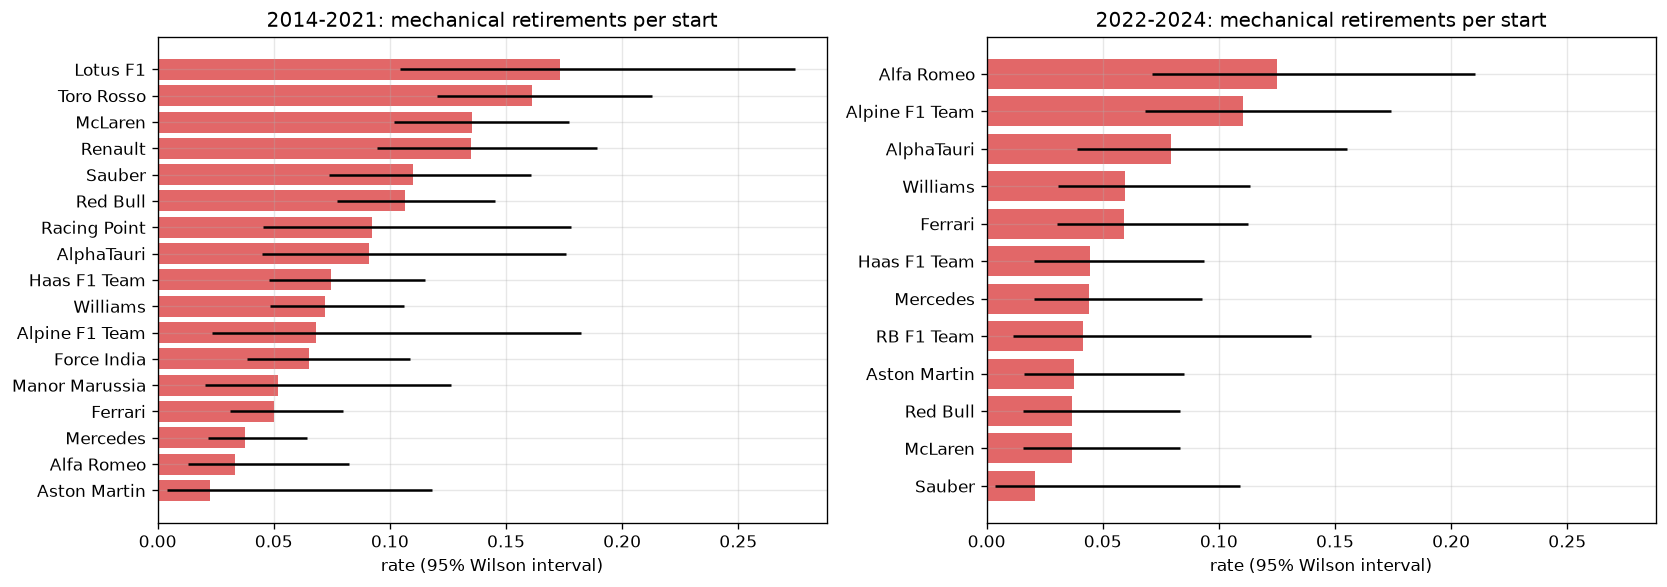
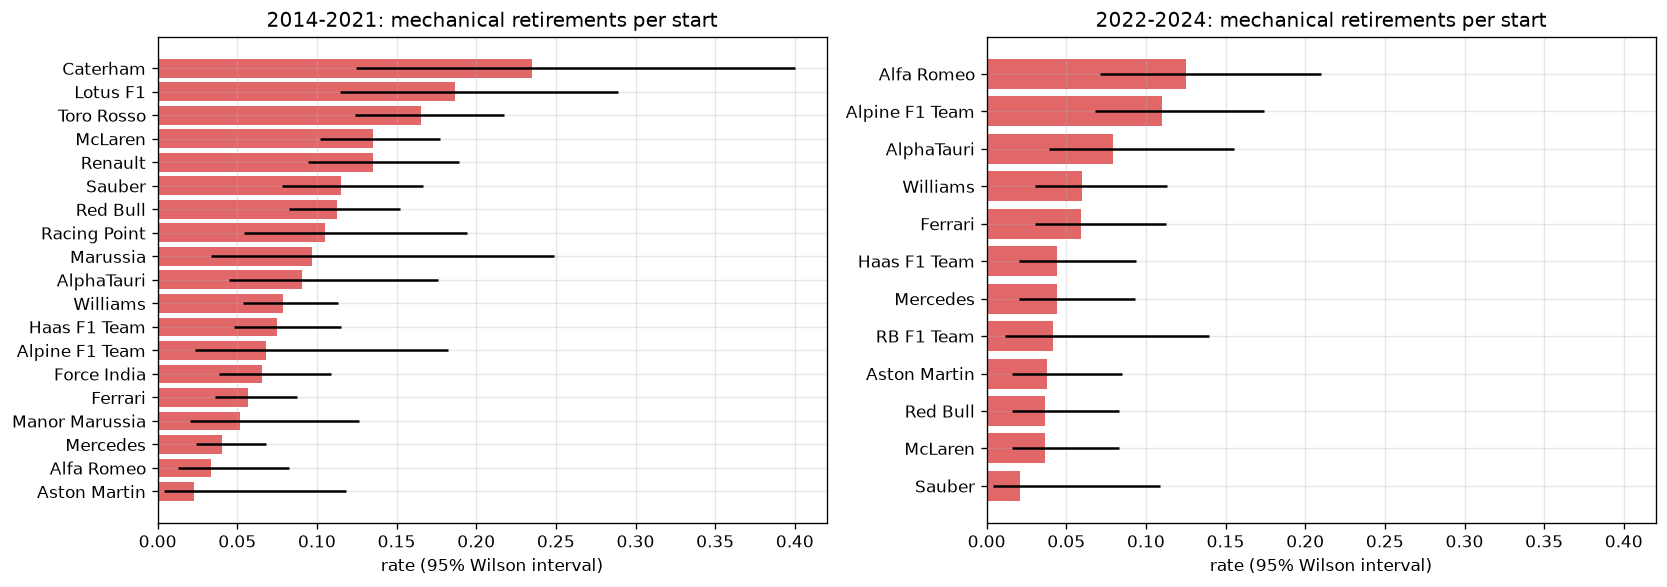
Update the report and hand-off to the extended data sections
Report sections 1-7 cover the audit findings, validity and reconciliation,
the revised Q3 answer, the feature trials and the missing-value handling,
with the per-season missing-value figure. The hand-off adds the staff
guidance for the baseline, the network, the report format and the open
point on qualifying for the ablation.

diff --git a/report/report.md b/report/report.md
@@ -1,32 +1,36 @@
 # Formula 1 Podium Prediction — Milestone 1 Report
 
-*Draft. Sections 1–7 cover data cleaning, the data-engineering questions, feature engineering, the split and preprocessing. Sections 8–10 are completed with the modeling work. Every number comes from `F1_podium_prediction.ipynb`; section numbers in brackets (§) point to the notebook.*
+*Draft. Sections 1–7 cover the data audit and cleaning, the data-engineering questions, feature engineering, the split and preprocessing. Sections 8–10 are completed with the modeling work. Every number comes from `F1_podium_prediction.ipynb`; section numbers in brackets (§) point to the notebook.*
 
 ## 1. Task and data
 
 For every driver in every race we predict whether the driver finishes on the podium (`positionOrder <= 3`), using only information available after qualifying and before the start. One row of the modeling table is one driver in one race, so `(raceId, driverId)` must be unique.
 
-The data is the Kaggle / Ergast Formula 1 dataset, 1950–2024: 14 relational tables, 26,759 result rows in 1,125 races. Not every table covers every season: qualifying starts in 1994, lap times in 1996, pit stops in 2011 and sprint results in 2021 (§2).
+The data is the Kaggle / Ergast Formula 1 dataset, 1950–2024: 14 relational tables, 26,759 result rows in 1,125 races. Not every table covers every season: qualifying starts in 1994, lap times in 1996, pit stops in 2011, sprint results in 2021, and constructor standings only in 1958, when the Constructors' Championship began (§2).
 
 ![Seasons covered by each table](figures/table_coverage.png)
 
-## 2. Data cleaning
+## 2. Data audit and cleaning
 
-Before cleaning (§2.3), the result rows per race peak at about 39 in the late 1970s–80s, the podium share dips exactly there, and `grid = 0` is a spike of 1,638 rows that mixes drivers who never started with pit-lane starts.
+**Profile before any change (§2).** Every column of every table was profiled (distinct values, missing share, range, examples), the missing-value markers were counted per column and per season, and the categorical columns were listed with their value counts. Before cleaning, the result rows per race peak at about 39 in the late 1970s–80s, the podium share dips exactly there, and `grid = 0` is a spike of 1,638 rows that mixes drivers who never started with pit-lane starts.
 
 ![Raw rows per race, podium share and grid values](figures/raw_target_grid.png)
 
-| Issue (how it was found) | Decision | Evidence |
+| Problem | How it was detected | Decision |
 | --- | --- | --- |
-| Missing values stored as the text `\N` in 30 columns, and as empty strings in `q2`/`q3` for 2023–2024 | Read both as missing; nothing else is treated as missing | sentinel count per column (§2.1) |
-| Dates, lap times, qualifying times and pit-stop durations stored as text, in three formats (`23.456`, `1:26.572`, `2:05:05.152`) | One parser to seconds; dates to `datetime` | parsed lap times match the `milliseconds` column on all 589,081 laps (§3.1) |
-| One impossible qualifying time (`16:42.640`, 1995 Japanese GP, pole ≈ 98 s) | Times above 150% of pole set to missing (only this one) | gap-to-pole distribution: 99.9% of times are within 19.4% of pole (§3.1) |
-| Primary and foreign keys | All unique, complete and reconciled; no change needed | key checks on all 14 tables (§3.2) |
-| 91 extra rows on `(raceId, driverId)`: 85 shared drives, 1950–1978 | Keep the row of the car the driver started in; label it a podium if the driver finished on the podium in any car (rule D) | four rules compared: keeping the best result takes the grid slot of the wrong car in 68 of 85 pairs; keeping only the own car's result loses 17 credited podiums (§3.3) |
-| `grid = 0` mixes 1,563 entries that never started with 72 pit-lane starts | Keep a row if the driver had a grid slot or completed a lap; pit-lane starts placed at the back of the grid with a flag | none of the dropped rows is a podium; dropping by status letter or by `grid = 0` alone keeps non-starters or loses pit-lane starts (§3.4) |
-| Indianapolis 500 (1950–1960) | Dropped | 103 of its 107 drivers never raced another championship race (§3.4) |
+| Missing values stored as the text `\N` in 30 columns, and as empty strings in `q2`/`q3` for 2023–2024 | count per column and season (§2.2); no value is a word pandas would read as missing | read both as missing, nothing else |
+| Dates and durations stored as text, durations in three formats (`23.456`, `1:26.572`, `2:05:05.152`) | column profile, format patterns (§2.1, §2.4) | one parser to seconds (matches the `milliseconds` column on all 589,081 laps); dates to `datetime` |
+| Spelling variants: `Argentine`/`Argentinian`, `USA`/`United States` | value counts (§2.3) | one canonical name each, asserted (§3.1) |
+| One impossible qualifying time (`16:42.640`, 1995 Japanese GP, 10.2× pole) | gap to pole; the next slowest time is 1.45× pole | set to missing; any cutoff between 1.45× and 10.2× gives the same result |
+| Team identity splits: 212 constructor ids share 175 Wikipedia links (chassis–engine combinations, renames) | column profile (§2.1) | follow `constructorId`, as the official championship does; documented |
+| Validity rules: 13 rules on positions, grid, laps, points, dates, ages, standings | violation counts (§3.2) | every violation traced: shared cars and the Indianapolis 500 (repeated positions), a vacant place after a disqualification (1983 Brazil), Formula 2 cars on a grid (1969 Germany), one entry error in an unused column, a mid-season id change (Marussia 2015) |
+| Do the standings agree with the results? | points summed from results and sprints vs `driver_standings` (§3.2) | agree for ≥ 99.3% of rows in every decade and 100% since 1990; the rest is the old "best results only" scoring rule, so the standings are the official championship |
+| Primary and foreign keys | uniqueness and reference checks on all 14 tables (§3.2) | all valid; no change |
+| 91 extra rows on `(raceId, driverId)`: 85 shared drives, 1950–1978 | natural-key check (§3.2) | keep the row of the car the driver started in; label it a podium if the driver finished on the podium in any car (rule D). Four rules compared: keeping the best result takes the grid slot of the wrong car in 68 of 85 pairs; keeping only the own car's result loses 17 credited podiums (§3.3) |
+| `grid = 0` mixes 1,563 entries that never started with 72 pit-lane starts | grid histogram and `laps` (§3.4) | keep a row if the driver had a grid slot or completed a lap. Checked with the model (§8.3): removing only `F` (failed to qualify) or nothing scores the same or worse on the same rows, and keeping the non-starters would flag 217 drivers who never raced as pit-lane starts |
+| Indianapolis 500 (1950–1960) | driver overlap (§3.4) | dropped: 103 of its 107 drivers never raced another championship race |
 
-Result: 26,759 result rows → 24,724 driver–race rows (podium share 13.6%).
+Result: 26,759 result rows → 24,724 driver–race rows (podium share 13.6%). No row and no column was dropped because of a missing value; §3.6 maps every column with missing values to what is done with it.
 
 After cleaning, the podium share in every season follows `3 / starters per race`; the dip before 1995 came from the non-starters (§4.1).
 
@@ -34,7 +38,7 @@ After cleaning, the podium share in every season follows `3 / starters per race`
 
 Other findings that shape the later steps:
 
-- **The grid is the strongest signal, and it drifts.** A pole position converted to a podium 53% of the time in 1950–69 and 81% in 2014–24 (§4.2).
+- **The grid is the strongest signal, and it drifts.** A pole position converted to a podium 53% of the time in 1950–69 and 81% in 2014–24 (§4.2). Per technical era, the grid's ROC-AUC rose from 0.84–0.86 (1958–1988) to 0.89–0.93 (since 1989); 2011–2013, when DRS arrived, is slightly less grid-dominated than 2009–2010 on two of three measures.
 - **Qualifying coverage is patchy.** There is no qualifying data before 1994, it is complete in 1994–95, covers only 6–59% of starters in 1996–2002, and is complete from 2003 on (§4.3).
 - **Reliability changed.** About half of the starters finished a race until the 1990s, against 86% in the 2020s (§4.4).
 
@@ -48,10 +52,10 @@ Other findings that shape the later steps:
 
 ### Q1. Which circuits convert a front-row start into a podium most often, and does the ranking change after 2014?
 
-**Grain:** one driver starting from the front row (grid 1–2) at one race. **Joins:** results → races → circuits, plus qualifying. **Missingness:** grid is complete; the qualifying definition only exists from 1994 and is analysed separately. Circuits need ≥ 10 front-row starts in a period to be ranked.
+**Grain:** one driver starting from the front row (grid 1–2) at one race. **Joins:** results → races → circuits, plus qualifying. **Missingness:** grid is complete; the qualifying definition only exists from 1994 and is analysed separately. **Periods:** 1950–2013 and 2014–2024 ("after the 2014 hybrid era" read as from 2014 on; 2022–2024 alone has at most 3 races per circuit, too few to rank). Circuits need ≥ 10 front-row starts in a period to be ranked.
 
 - Since 2014 the best converters are Suzuka (89%), Yas Marina (86%), Monaco (85%), Barcelona and Spa (82%). Before 2014 the same circuits were led by Suzuka (70%), Hungaroring (68%) and Bahrain (67%).
-- The ranking changed completely: the rank correlation between the periods is −0.03 (−0.07 when "before" is limited to 1994–2013). Hungaroring fell from 2nd to 16th; Monaco rose from 15th to 3rd.
+- The ranking changed completely: the rank correlation between the periods is −0.03. It stays near zero when "before" is limited to 1994–2013 (−0.07), when "after" is limited to the hybrid era 2014–2021 (0.01), and for any minimum of 6–15 front-row starts (−0.13 to 0.06). Hungaroring fell from 2nd to 16th; Monaco rose from 15th to 3rd.
 - Conversion rose almost everywhere (56% → 76% overall), in line with better reliability.
 - **Qualifying vs grid:** 36 of 986 front-row qualifiers since 1994 did not start from the front row (penalties), and only 31% of them reached the podium. The circuit ranking hardly depends on the definition (rank correlation 0.90).
 - With 14–26 front-row starts per circuit since 2014, one podium moves a rate by 4–7 points, so neighbouring ranks are not meaningfully different.
@@ -70,41 +74,50 @@ Other findings that shape the later steps:
 
 ### Q3. Which constructors have the highest mechanical-retirement rate in 2014–2021 vs 2022–2024?
 
-**Grain:** one car that started one race. **Joins:** results → status → constructors, results → races. **Mechanical** = a component failed; the 139 status values were grouped by hand, with an *unclear* group (tyre, puncture, wing, wheel, damage, the bare "Retired") checked separately. Teams with fewer than 40 starts in a period are not ranked.
+**Grain:** one car that started one race. **Joins:** results → status → constructors, results → races. **Mechanical** = a component failed; the 139 status values were grouped by hand. Following the course staff's clarification, tyre failures, punctures, fire and safety belt count as mechanical and refuelling does not; ambiguous statuses (wing, wheel, damage, the bare "Retired") form an *unclear* group, checked separately. Every constructor is ranked, with a 95% Wilson interval for its rate.
 
-- **2014–2021:** Lotus F1 17.3% of starts (13/75), Toro Rosso 16.1% (39/242), McLaren 13.5% (43/318), Renault 13.5% (27/200). Mercedes was the most reliable of the teams present in all eight seasons (3.8%).
+- **2014–2021:** Caterham 23.5% of starts (8/34, its only season), Lotus F1 18.7% (14/75), Toro Rosso 16.5% (40/242); McLaren and Renault 13.5%. The top three's intervals overlap (12–40%, 12–29%, 12–22%), so they cannot be strictly ordered. Mercedes was the most reliable of the teams present in all eight seasons (4.1%).
 - **2022–2024:** Alfa Romeo 12.5% (11/88), Alpine 11.0% (15/136), AlphaTauri 8.0% (7/88); most teams are between 2% and 6%.
-- Mechanical retirements fell from 9.1% to 5.8% of starts. Counting the unclear statuses as mechanical leaves the leaders unchanged.
+- Mechanical retirements fell from 9.5% to 5.8% of starts. Counting the unclear statuses as mechanical leaves the leaders unchanged.
 - Renamed teams count separately (e.g. Alfa Romeo 2022–23 and Sauber 2024 are the same team: 8.8% together).
 
 ![Q3](figures/q3_mechanical_rate.png)
 
 ## 4. Features
 
-Every candidate column was screened against the cutoff (§6.1): race results, points, status, laps, pit stops, lap times and same-race standings are excluded. Standings are taken after the previous round; form features use only earlier races. Three automatic checks confirm this (§6.3): a driver's first start has no form, round 1 has no standings, and the form of 300 random rows is recomputed by hand from earlier races.
+Every candidate column was screened against the cutoff (§6.1): race results, points, status, laps, pit stops, lap times and same-race standings are excluded. Standings are taken after the previous round; form, circuit history and reliability use only earlier races. Automatic checks confirm this (§6.3): a driver's first start has no form, round 1 has no standings, a first visit to a circuit has no circuit history, and the form of 300 random rows is recomputed by hand from earlier races.
 
-Selection used the training seasons only: the single-feature relationship with the podium (§8.1), redundancy (§8.2), and trials in which feature groups are added one at a time (§8.3).
+28 candidate features in 11 groups were built (§6.2), including three groups motivated by the F1 introduction and question 3: the driver against the team-mate in the same car, earlier results at the same circuit, and reliability (the driver's recent retirements, the team's recent mechanical failures). Selection used the training seasons only: the single-feature relationship with the podium (§8.1), redundancy (§8.2), and trials (§8.3):
+
+- **Representations:** championship position beats raw points (−0.026, the points system changed) and ties with points share; the Q1 gap beats the gap from each driver's best session (−0.008); a 3-race form window is never beaten and overlaps least with standings and career rate.
+- **Forward selection,** in an order computed from the single-feature evidence, with a group kept only if it beats the measured noise level for at least one of the two trial models.
+- **Driver form vs constructor form:** they tie on the single-feature evidence and in a head-to-head; the order-free check decides: removing driver form from all groups costs the tree model 0.014 (beyond noise), removing constructor form costs nothing, because the team's strength is already in `con_standing`.
+- **Order-free check:** removing one group at a time from all groups shows that the three new groups, experience, field size and home make the models *worse*; all eleven groups together score below the four selected ones.
 
 | Group | Feature | Why it is valid at the cutoff | Evidence |
 | --- | --- | --- | --- |
-| grid | `grid_pos`, `pit_lane_start` | the starting grid is fixed before the start | strongest signal in every era |
-| qualifying | `quali_pos`, `q1_gap_pct` (gap to the fastest Q1 time) | qualifying ends before the race | +0.038 PR-AUC on top of the grid |
+| grid | `grid_pos`, `pit_lane_start` | the starting grid is fixed before the start | strongest signal in every era; removing it costs 0.015–0.023 |
+| qualifying | `quali_pos`, `q1_gap_pct` (gap to the fastest Q1 time) | qualifying ends before the race | +0.038 PR-AUC on top of the grid; once standings and form are in it adds little to the trial models (open point for the ablation) |
 | standings | `drv_standing`, `con_standing` | championship positions after the previous round | +0.011 (logistic regression), +0.049 (gradient boosting) |
-| driver form | podium rate and finishing percentile over the last 3 starts, career podium rate | computed from earlier races only | +0.022 (gradient boosting) |
+| driver form | podium rate and finishing percentile over the last 3 starts, career podium rate | computed from earlier races only | the tree model loses 0.022 without it |
 
 ![Podium rate across each feature](figures/feature_effects.png)
 
-Not selected: raw championship points (the points system changed; −0.026), constructor form, driver experience, field size and the home flag (gains within the noise level), `grid − qualifying` (a linear combination of two kept features), sprint results (no sprint before 2021, so no training rows have one).
+Not selected: raw points and points share, the best-session qualifying gap, `grid − qualifying` (a linear combination of two kept features), constructor form, teammate, circuit history, reliability, experience, field size and the home flag, and sprint results (not leakage, since the sprint runs before the race, but no training season has one).
 
 ## 5. Data split
 
-By season: **train 1950–2019 (22,589 rows), validation 2020–2021 (779), test 2022–2024 (1,356).** The model must predict future races from past ones, every race stays in a single split, and the test set is the new 2022 regulation era. The podium rate is 13.4% in train and 15.0% in validation and test.
+By season: **train 1950–2019 (22,589 rows), validation 2020–2021 (779), test 2022–2024 (1,356).** The model must predict future races from past ones, every race stays in a single split, and the test set is the new 2022 regulation era. The podium rate is 13.4% in train and 15.0% in validation and test. A random split scores the same on the same rows (§7), so the time split is chosen for validity, not for its score.
 
-Data decisions were evaluated without touching the test set, on three two-season validation windows (2016–17, 2018–19, 2020–21), with PR-AUC as the main metric. A change was accepted only if it beat the reference by more than the measured noise level (the spread of scores when 1% of the training rows are dropped at random: 0.005 for logistic regression, 0.011 for gradient boosting) and in at least 2 of the 3 windows. Training on all seasons beat every shorter training window (§8.3).
+Known issues of these boundaries and how they are handled (§7): the validation split is small (39 races; 2020 was a 17-race season), so data decisions use three two-season windows (2016–17, 2018–19, 2020–21) and a measured noise level (the spread of scores when 1% of training rows are dropped: 0.005 for logistic regression, 0.011 for gradient boosting); training spans very different eras, so the training window was tested (every shorter window is worse); the test era is new, which is the situation the model faces in use; qualifying coverage and the base rate differ between splits, handled by missing indicators and a validation-chosen threshold.
 
-## 6. Preprocessing
+## 6. Missing values and preprocessing
 
-Median imputation with missing-value indicators, then standard scaling, both fitted on the training rows only. Median + indicators beat median only, mean only and filling qualifying with the grid slot (§9.1). Clipping or log-transforming the qualifying gap and the choice of pit-lane encoding made no difference beyond the noise level.
+**Missing values (§3.6, §9.1).** Of the 30 columns with missing values, only `qualifying.q1` feeds a feature; the others are post-race or schedule columns that are never used. What matters are missing *rows*: no qualifying result before 1994 and for 41–94% of starters in 1996–2002, no constructor standings before 1958, no standings at round 1 or in a driver's or team's first race of a season, no form before a driver's first start. In validation and test almost nothing is missing.
+
+![Missing values in the selected features, per season](figures/feature_missingness.png)
+
+Filling, fitted on the training rows only: the median plus a 0/1 indicator per feature. It beats median only, mean only and filling qualifying with the grid slot; a model-based (iterative) imputer ties with it; dropping training rows with a missing value is clearly worse (−0.014: only 7,384 of 22,589 training rows are complete). Then standard scaling: min-max, robust and no scaling tie for logistic regression, and standard scaling is kept for the regularization penalty and for the neural network. Clipping or log-transforming the qualifying gap and the choice of pit-lane encoding made no difference beyond the noise level.
 
 ![Effect of preprocessing](figures/preprocessing_effect.png)
 
@@ -134,7 +147,8 @@ The assumptions behind the data decisions are listed, with their evidence, in no
 
 - **Qualifying coverage drift:** 63% of the training rows have imputed qualifying features (none before 1994, partial in 1996–2002).
 - **Era sensitivity:** the grid-to-podium relationship and reliability changed strongly over 75 years; the test seasons are a new regulation era.
-- **Renamed teams** start with no history (standings and form follow `constructorId`).
+- **Team identity:** a renamed team, or the same chassis with another engine in the early decades, is a new `constructorId`. The constructor standings restart every season, so the selected features lose nothing at a rename between seasons; only cross-season team history (constructor form, not selected) would.
+- **Overlapping feature groups:** qualifying, standings and driver form all measure current pace, so removing one costs little while the others are present; the ablation should be read with this in mind.
 - **Manual mappings** (status groups, nationality → country) are judgement calls; Q3 includes a sensitivity check.
-- **Small validation windows** (about 40 races each): differences below the noise level are treated as ties and decided on domain grounds.
+- **Small validation windows** (about 40 races each): differences below the noise level are treated as ties and decided by a stated rule or on domain grounds.
 - *Modeling limitations to be added.*

diff --git a/team/HANDOFF.md b/team/HANDOFF.md
@@ -81,7 +81,7 @@ Sections 11 and 12 can run in parallel; 13–16 need the chosen model from 11–
 
 ### 11. Baseline and statistical models
 
-- A baseline (the brief accepts a statistical model or a shallow FFNN; `make_lr()` is ready).
+- A baseline (the brief accepts a statistical model or a shallow FFNN; `make_lr()` is ready). It must be a classifier: the course staff pointed out that *linear* regression is not suited to classification; logistic regression is.
 - At least two different statistical models (e.g. logistic regression, random forest, gradient boosting).
 - Hyperparameter tuning on validation, shown as a table of the values tried.
 - How each model works and its limitations, in a few lines each.
@@ -93,6 +93,7 @@ Sections 11 and 12 can run in parallel; 13–16 need the chosen model from 11–
 - 1–2 hidden layers, Keras or PyTorch, inputs from `make_preprocessor()`.
 - Training curves (loss and validation metric per epoch), early stopping on validation.
 - At least one architecture or hyperparameter variant, compared with the baseline.
+- Improve it for real (layer sizes, regularization, learning rate, early stopping) and show the attempts. The course staff warned that a deliberately weak or tiny network, used only to make another model look better, will be questioned.
 - Add the final network to `models_to_compare` (wrapped, see section 1).
 
 ### 13. Model comparison
@@ -106,6 +107,7 @@ Sections 11 and 12 can run in parallel; 13–16 need the chosen model from 11–
 
 - Retrain the chosen model once per group in `FEATURE_GROUPS`, each time without that group; report the drop in validation metrics per group.
 - Section 8.3 is the forward version made before training; the ablation is the after-training measurement.
+- Read the drops with the overlap in mind: qualifying, standings and driver form all measure current pace, so removing one costs little while the others are present (8.3). Qualifying is an open point: with the two trial models it added little once standings and form were in. Report what the final model shows for it.
 
 ### 15. Explainability (XAI)
 
@@ -125,7 +127,7 @@ Sections 11 and 12 can run in parallel; 13–16 need the chosen model from 11–
 
 ## 5. Report
 
-`report/report.md` has sections 1–7 written, with every figure the notebook saves in `report/figures/`. The brief wants every plot in both the notebook and the report: save each new figure with `save_fig('name')` before `plt.show()` and add it to the report. Every Run All overwrites the figures, so the report always shows the latest run; numbers quoted in the text do not update themselves, so re-check them against the notebook after a change. Fill sections 8–10 and export the final version to PDF for the submission.
+`report/report.md` has sections 1–7 written, with every figure the notebook saves in `report/figures/`. The brief wants every plot in both the notebook and the report: save each new figure with `save_fig('name')` before `plt.show()` and add it to the report. Every Run All overwrites the figures, so the report always shows the latest run; numbers quoted in the text do not update themselves, so re-check them against the notebook after a change. Fill sections 8–10. The submitted report must be written in Word or LaTeX and exported as PDF (course staff); `report.md` is the content to move into it.
 
 ## 6. Dependencies
 
